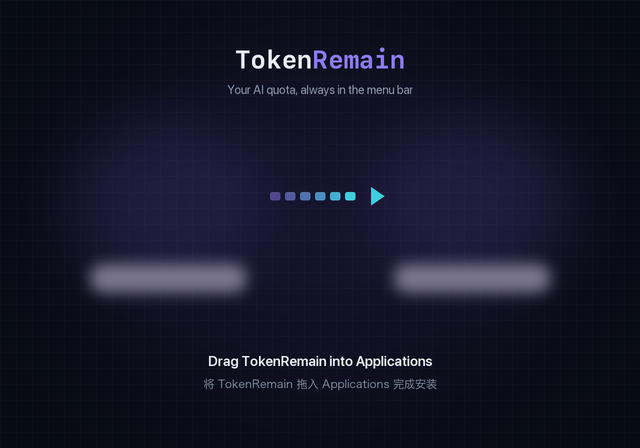
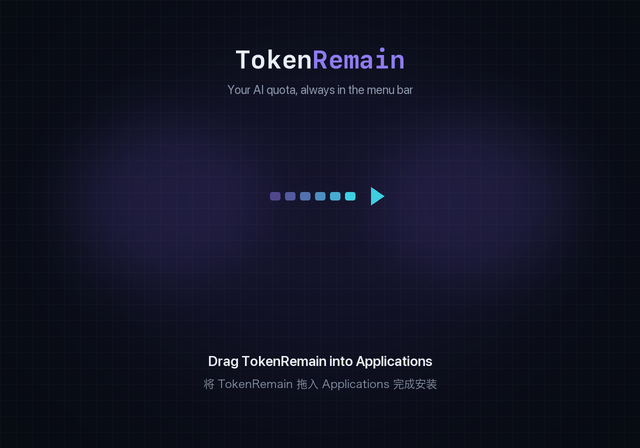
fix(brand): align installer and watch artwork

Changed region(s): [[0.5938, 0.5625, 0.875, 0.6875], [0.125, 0.5625, 0.4062, 0.6875]]

diff --git a/script/make_dmg_background.py b/script/make_dmg_background.py
@@ -8,10 +8,11 @@ Design notes
 ------------
 * Palette follows design/palette.md (site CSS tokens).
 * The arrow reuses the brand's segmented quota-bar language.
-* The two icon "slots" sit at relative luminance ~0.18. Finder renders icon
-  labels in white under Dark Mode and black under Light Mode, and 0.18 is the
-  luminance that maximises the *worst-case* contrast of the two (~4.6:1), so the
-  "TokenRemain" / "Applications" labels stay readable in either appearance.
+* Nothing is drawn in the icon label band (y 262-292). Finder renders those
+  labels in white under Dark Mode and black under Light Mode, so on this dark
+  background the names read well in Dark Mode and poorly in Light Mode. That is
+  a deliberate trade for a clean window; re-adding a light plate behind the band
+  is what buys back Light Mode legibility.
 """
 
 from PIL import Image, ImageDraw, ImageFilter, ImageFont
@@ -42,29 +43,6 @@ def font(path, size, weight=None, index=None):
     return f
 
 
-def _lin(c):
-    c /= 255.0
-    return c / 12.92 if c <= 0.04045 else ((c + 0.055) / 1.055) ** 2.4
-
-
-def luminance(rgb):
-    r, g, b = (_lin(c) for c in rgb)
-    return 0.2126 * r + 0.7152 * g + 0.0722 * b
-
-
-def at_luminance(rgb, target):
-    """Scale an RGB triple until it hits the requested relative luminance."""
-    lo, hi = 0.0, 4.0
-    for _ in range(60):
-        k = (lo + hi) / 2
-        cand = tuple(min(255, max(0, round(c * k))) for c in rgb)
-        if luminance(cand) < target:
-            lo = k
-        else:
-            hi = k
-    return tuple(min(255, max(0, round(c * (lo + hi) / 2))) for c in rgb)
-
-
 def lerp(a, b, t):
     return tuple(round(x + (y - x) * t) for x, y in zip(a, b))
 
@@ -72,12 +50,6 @@ def lerp(a, b, t):
 def px(v):
     return v * S
 
-
-# Violet-tinted slate pinned to the dual-appearance sweet spot. L=0.18 is where
-# the worse of {white text, black text} peaks at ~4.6:1; the halo blur below
-# costs ~0.012, so aim slightly high and let the blur settle onto the target.
-SLOT      = at_luminance((0x9A, 0x93, 0xB4), 0.193)
-SLOT_EDGE = at_luminance((0xB9, 0xB2, 0xD2), 0.30)
 
 img = Image.new("RGB", (px(W), px(H)), INK)
 
@@ -105,8 +77,6 @@ draw = ImageDraw.Draw(img, "RGBA")
 # background; only a soft pool of light marks where each one belongs.
 LEFT_CX, RIGHT_CX = 168, 472
 ICON_CY = 196
-LABEL_Y0, LABEL_Y1 = 264, 292
-PLATE_W = 156
 
 pool = Image.new("L", (px(W), px(H)), 0)
 pd = ImageDraw.Draw(pool)
@@ -114,20 +84,6 @@ for cx in (LEFT_CX, RIGHT_CX):
     pd.ellipse([px(cx - 96), px(ICON_CY - 74), px(cx + 96), px(ICON_CY + 84)], fill=90)
 pool = pool.filter(ImageFilter.GaussianBlur(px(26)))
 img = Image.composite(Image.new("RGB", img.size, (0x3A, 0x30, 0x6E)), img, pool)
-draw = ImageDraw.Draw(img, "RGBA")
-
-# Only the Finder label needs guaranteed contrast, so the tinted patch is kept
-# to the text band instead of covering the whole icon. It is blurred into a soft
-# halo: the centre keeps the target luminance while the edges dissolve, which
-# reads as lighting rather than as a clickable button.
-halo = Image.new("L", (px(W), px(H)), 0)
-hd = ImageDraw.Draw(halo)
-for cx in (LEFT_CX, RIGHT_CX):
-    hd.rounded_rectangle(
-        [px(cx - PLATE_W // 2), px(LABEL_Y0), px(cx + PLATE_W // 2), px(LABEL_Y1)],
-        radius=px(13), fill=255)
-halo = halo.filter(ImageFilter.GaussianBlur(px(7)))
-img = Image.composite(Image.new("RGB", img.size, SLOT), img, halo)
 draw = ImageDraw.Draw(img, "RGBA")
 
 # --- segmented arrow, in the brand's quota-bar language ---------------------
@@ -181,5 +137,4 @@ os.makedirs(out_dir, exist_ok=True)
 img.save(os.path.join(out_dir, "background@2x.png"))
 img.resize((W, H), Image.LANCZOS).save(os.path.join(out_dir, "background.png"))
 
-print(f"slot fill {SLOT} L={luminance(SLOT):.3f}  edge {SLOT_EDGE} L={luminance(SLOT_EDGE):.3f}")
 print(f"wrote {W}x{H} and {W*S}x{H*S} to Resources/dmg/")
